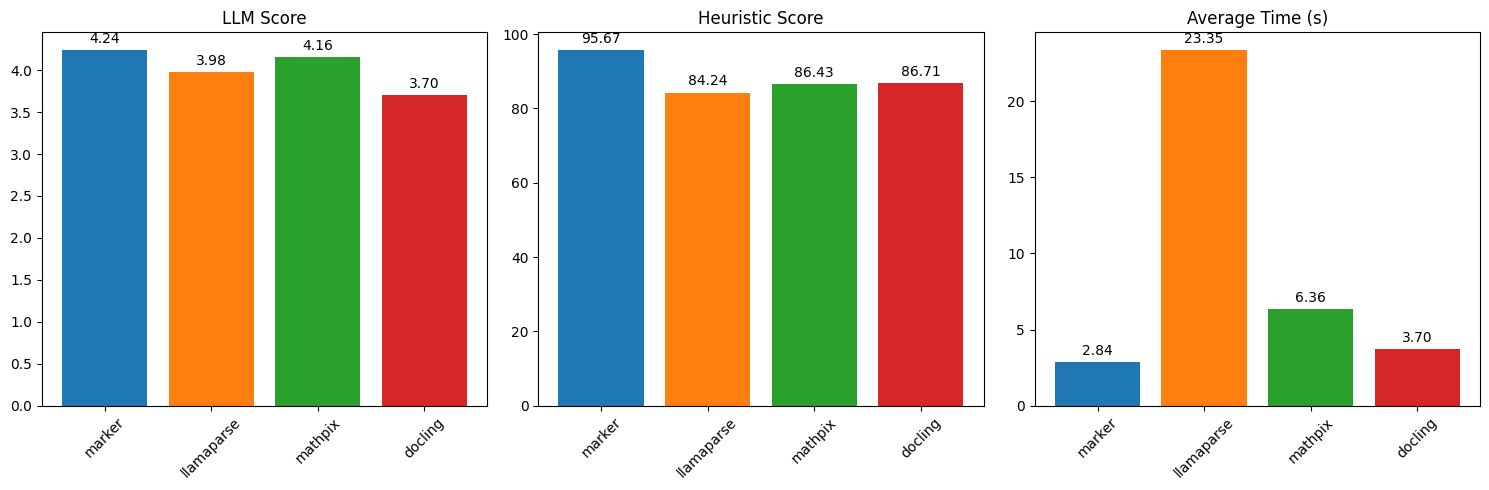
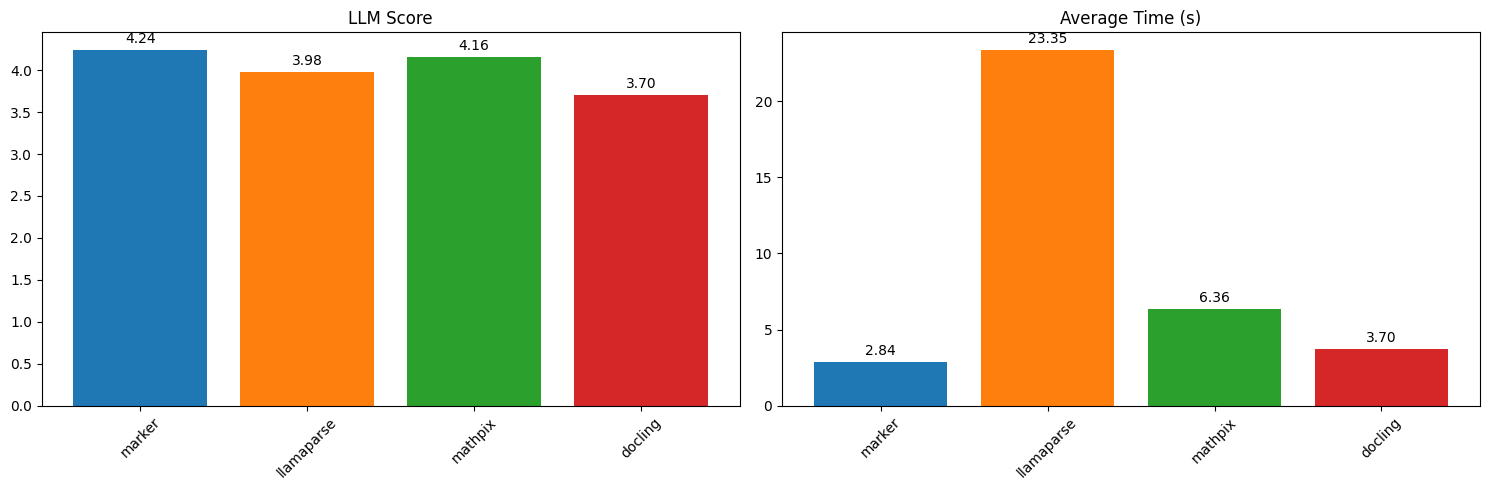
Update README

diff --git a/README.md b/README.md
@@ -3,11 +3,11 @@
 Marker converts PDFs and images to markdown, JSON, and HTML quickly and accurately.
 
 - Supports a range of documents in all languages
-- Formats tables, forms, equations, links, references, and code blocks
-- Extracts and saves images along with the markdown
+- Formats tables, forms, equations, inline math, links, references, and code blocks
+- Extracts and saves images
 - Removes headers/footers/other artifacts
-- Easily extensible with your own formatting and logic
-- Optionally boost accuracy with an LLM
+- Extensible with your own formatting and logic
+- Optionally boost accuracy with LLMs
 - Works on GPU, CPU, or MPS
 
 ## Performance
@@ -485,8 +485,8 @@ It only uses models where necessary, which improves speed and accuracy.
 
 PDF is a tricky format, so marker will not always work perfectly.  Here are some known limitations that are on the roadmap to address:
 
-- Marker will only convert block equations
 - Very complex layouts, with nested tables and forms, may not work
+- Forms may not be rendered well
 
 Note: Passing the `--use_llm` flag will mostly solve these issues.
 
